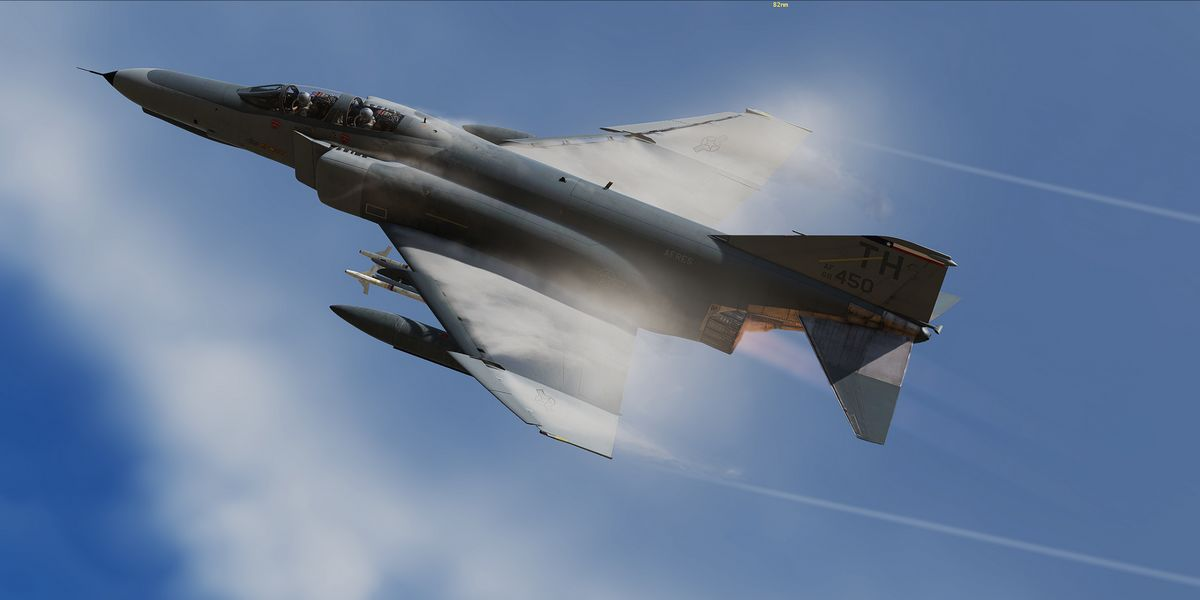
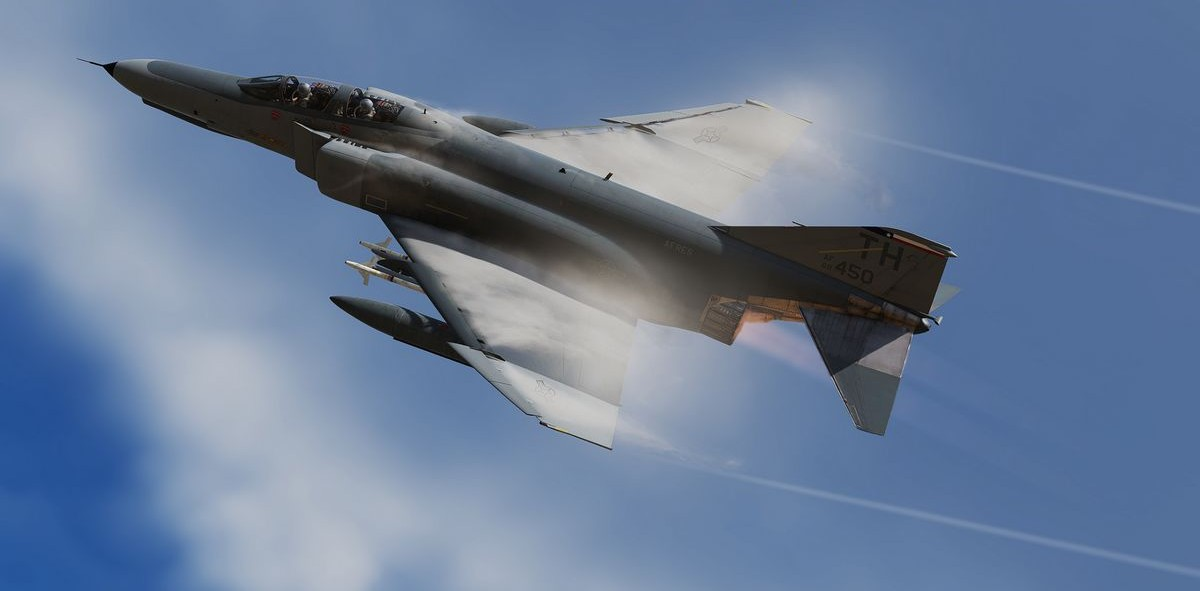
dscg overview rewrite, removed artifact on vape shot

diff --git a/src/cockpit/pilot/dcsg_controls.md b/src/cockpit/pilot/dcsg_controls.md
@@ -2,11 +2,10 @@
 
 ![DSCG Controls](../../img/GunRepeater.jpg)
 
-The Digital Scan Converter Group (DSCG) enabled the F-4E the capability to
-use [AGM-65 Maverick](../../stores/air_to_ground/missiles/maverick.md)
-air-to-ground missile. The DSCG replaced the Direct View Storage Tube radar scopes which could not
-interact with the digital interfaces of
-the [AGM-65 Maverick](../../stores/air_to_ground/missiles/maverick.md).
+The Digital Scan Converter Group (DSCG) refers to the screen used to display radar data
+and video feed of TV weapons or targeting pods.
+The DSCG replaces the Direct View Storage Tube radar scopes which could not
+interact with the digital interfaces.
 
 ## Reticle Intensity/Scale Knob
 
